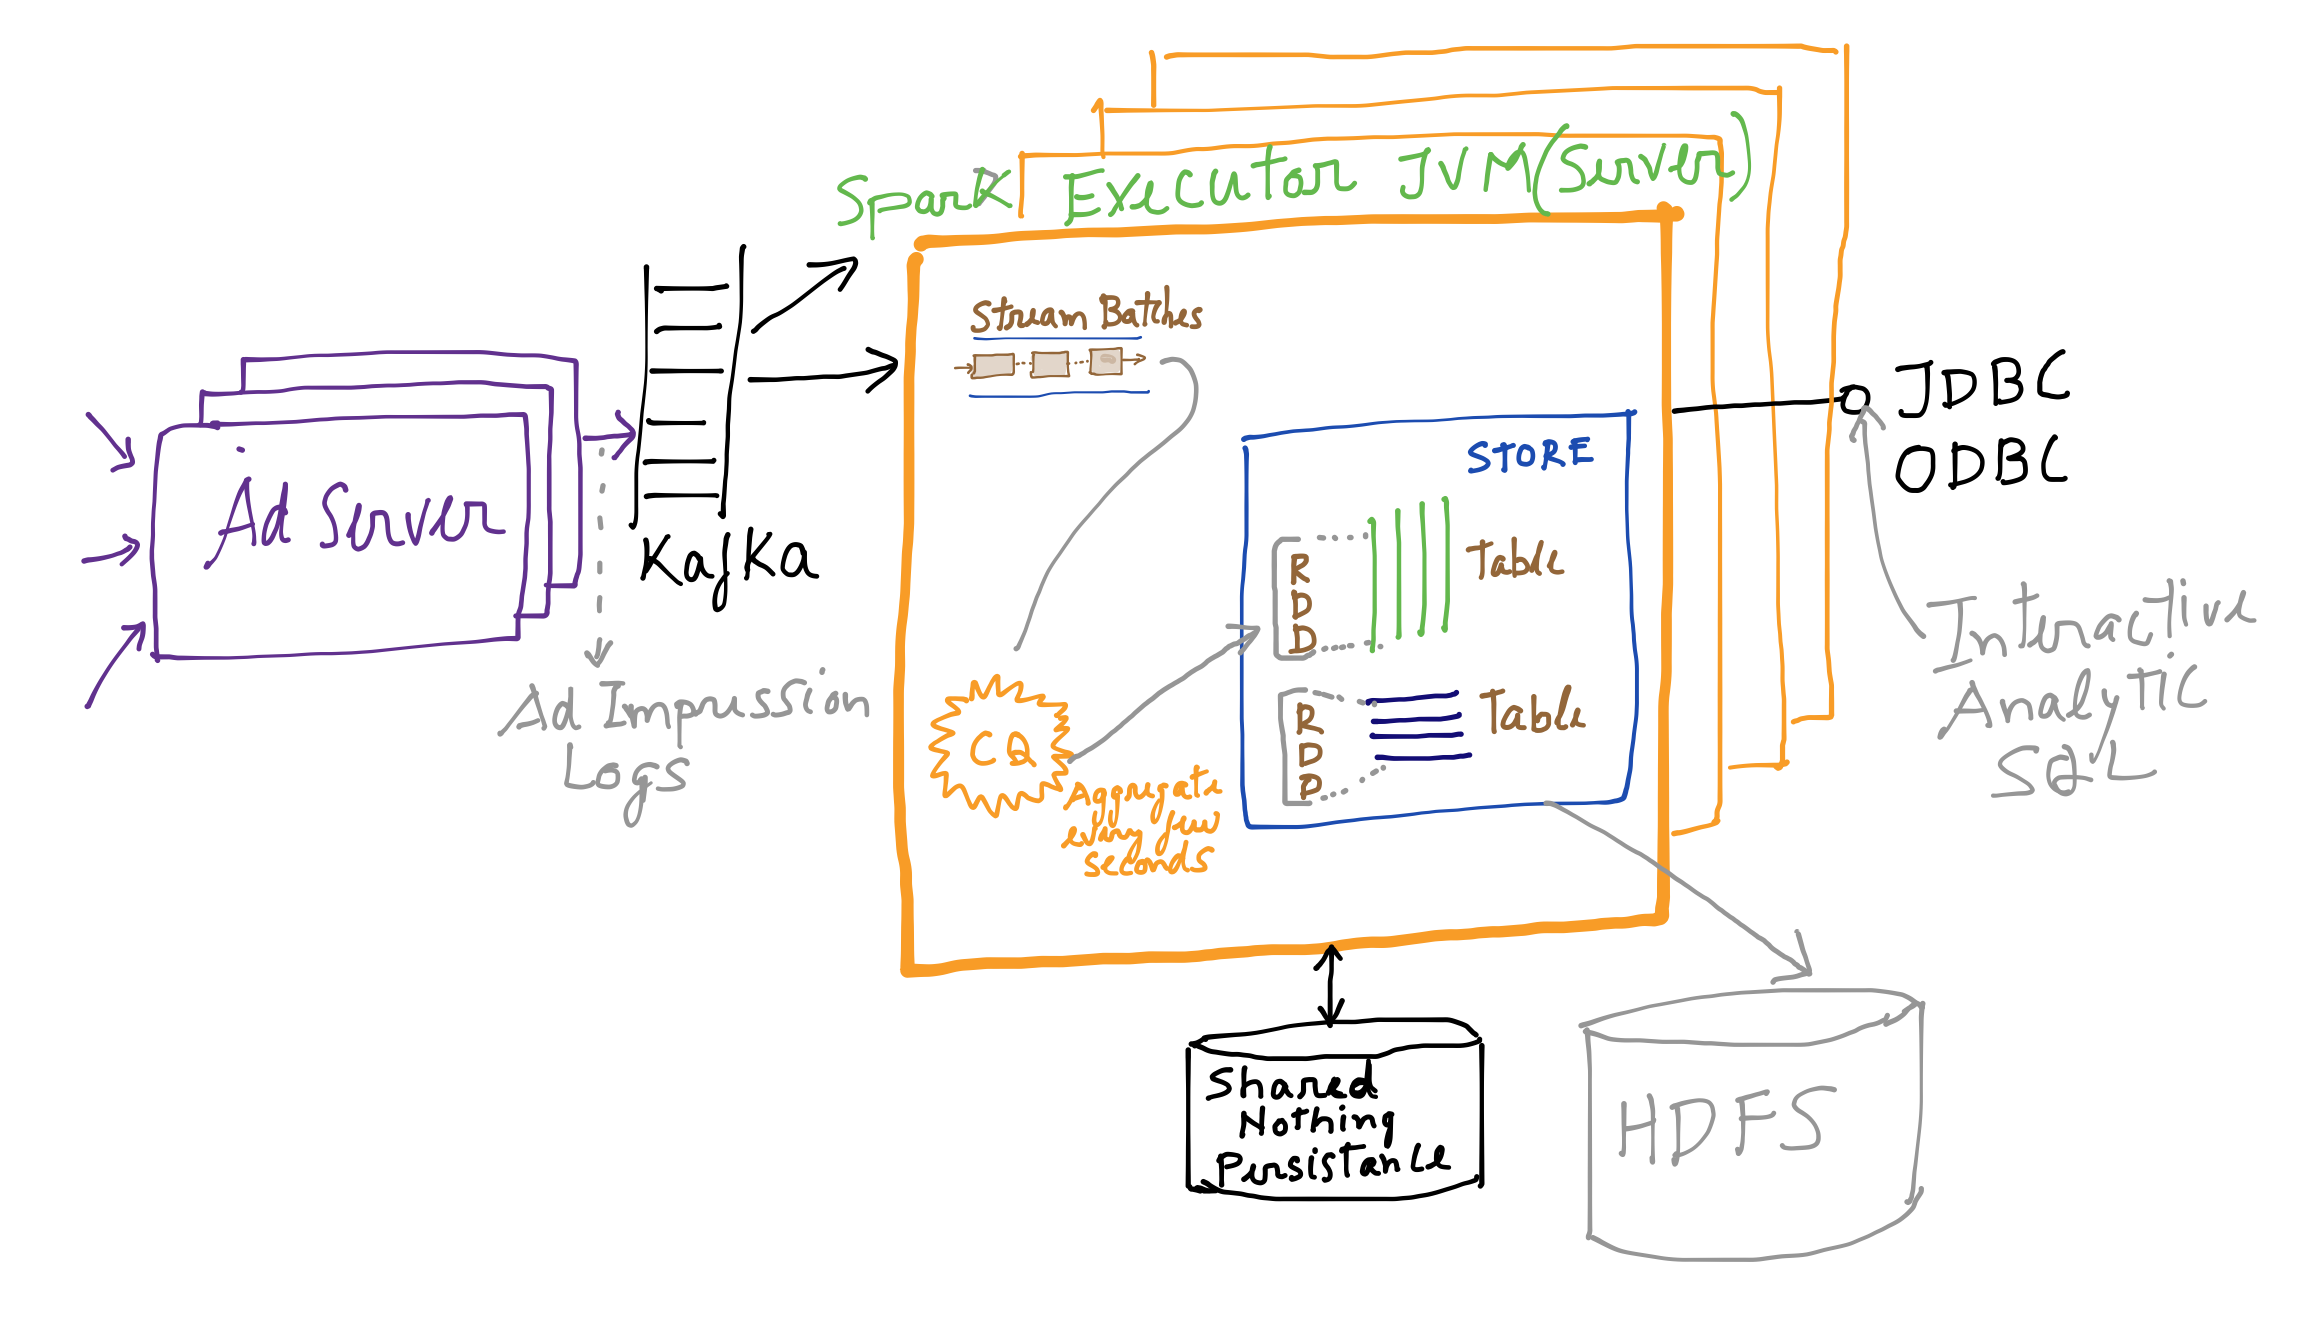
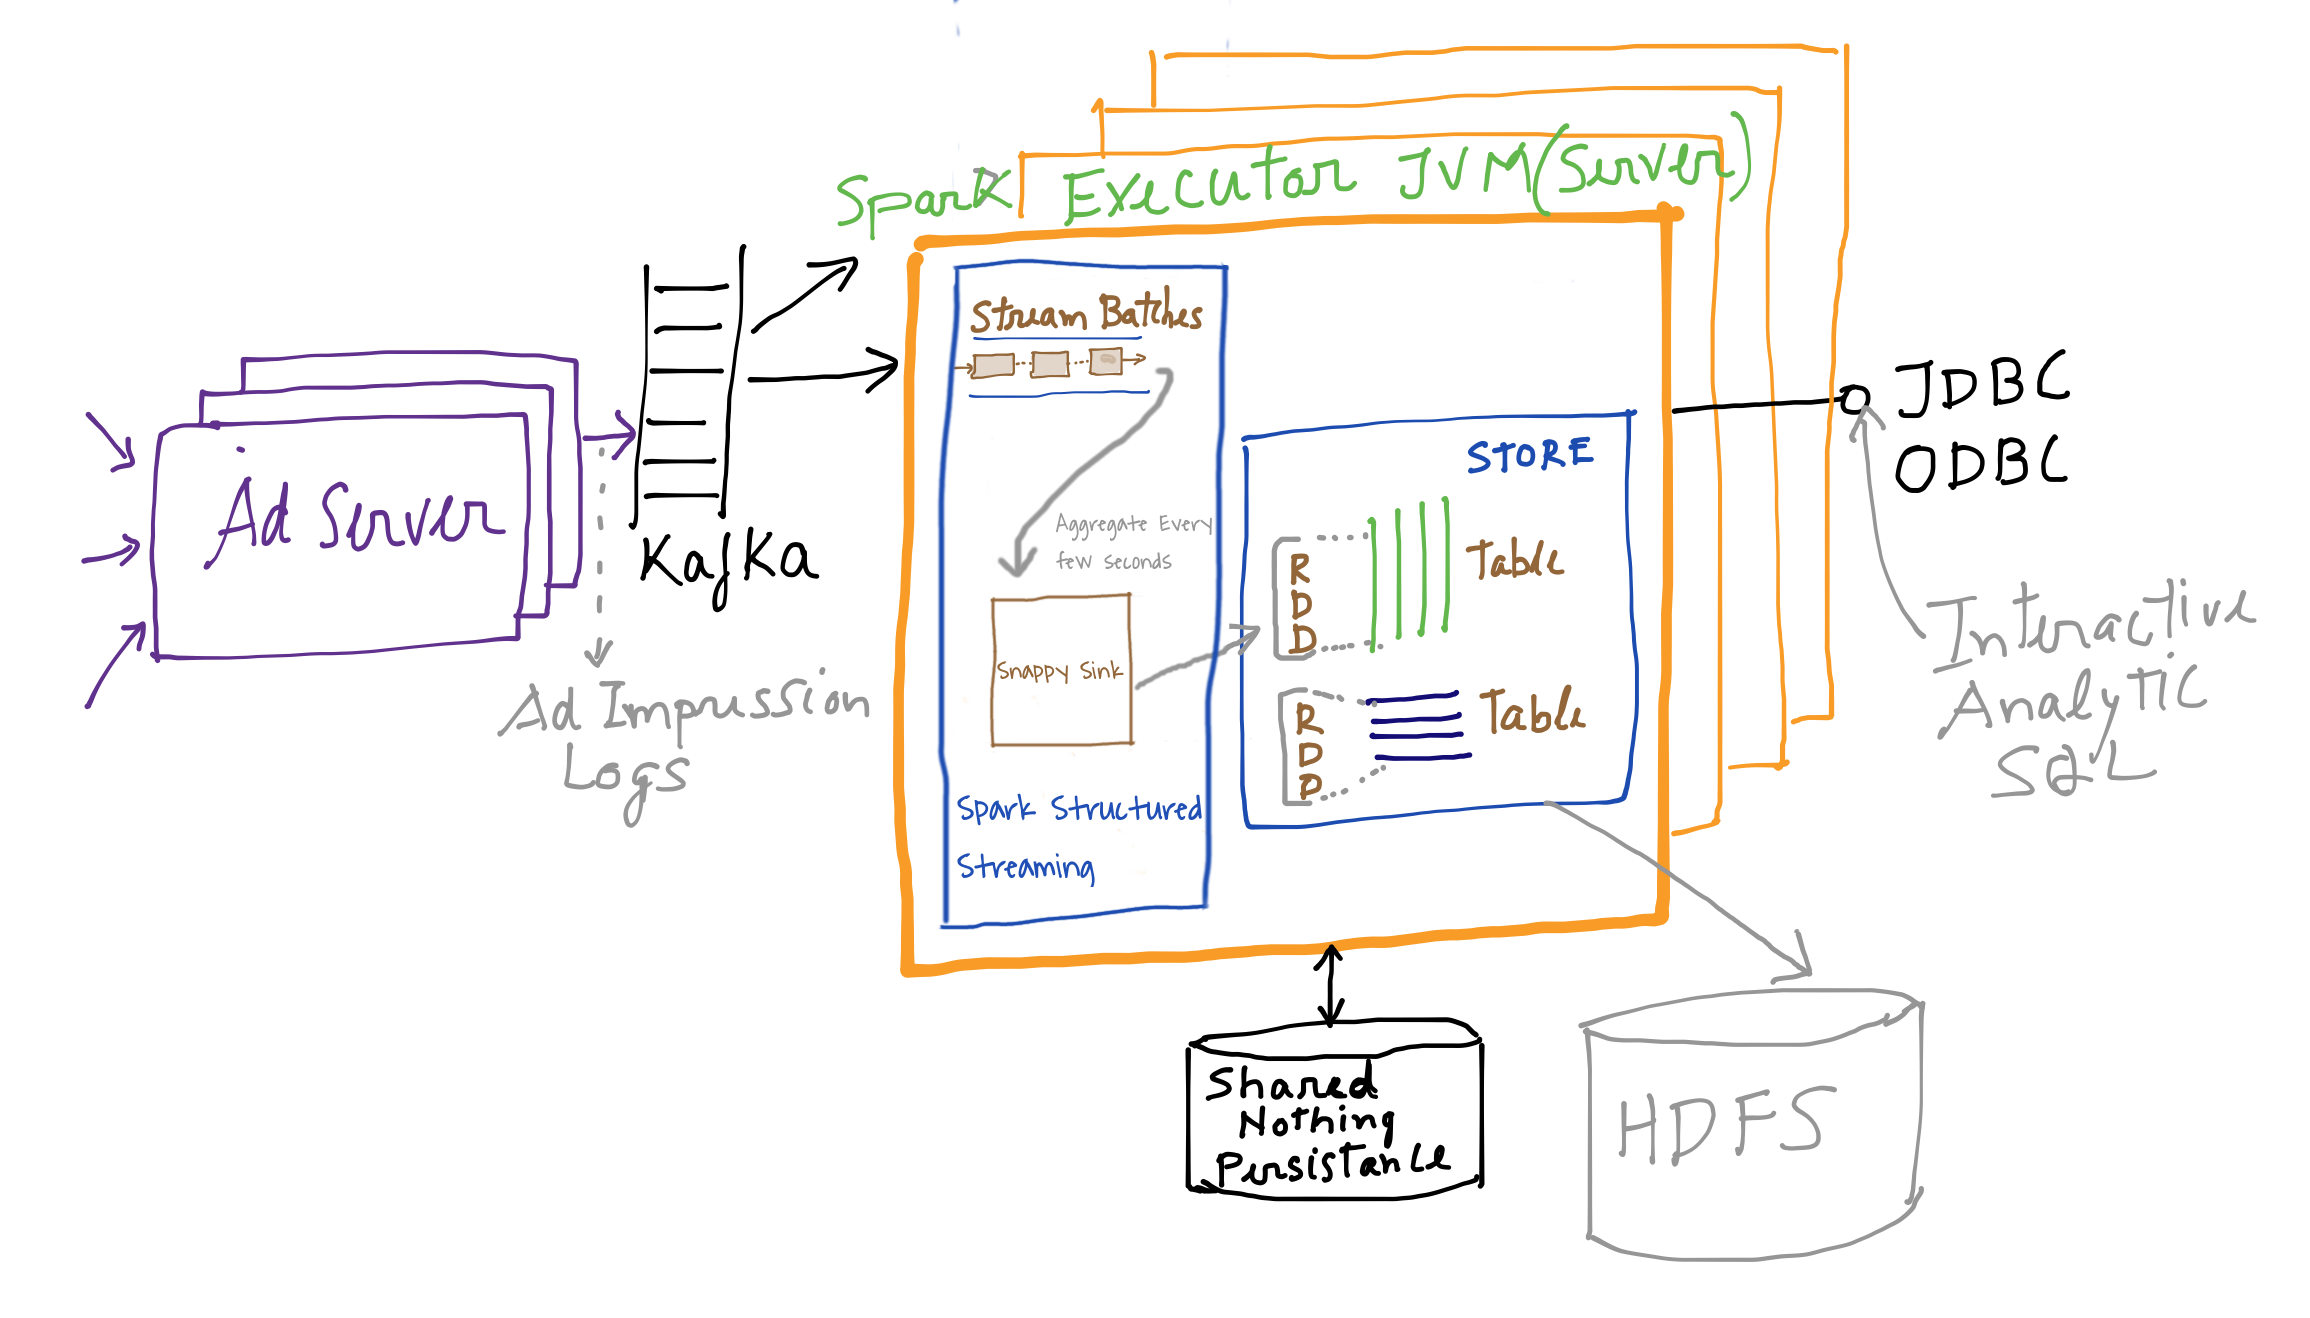
- updating diagram - cleanup - correction in readme - bumping up snappy version

Changed region(s): [[0.4052, 0.1866, 0.5299, 0.7155]]

diff --git a/README.md b/README.md
@@ -52,19 +52,18 @@ stream. To accomplish this, SnappyData collocates the store partitions with part
 i.e. a batch of data from the stream in each Spark executor is transformed into a compressed column batch and stored in
 the same JVM, avoiding redundant shuffles (except for HA).
 
-TODO: Need to review this architecture diagram
 ![Architecture Kinda](AdAnalytics_Architecture.png)
 
 
 The incoming AdImpression log is formatted as depicted below.
-
-|timestamp              |publisher  |advertiser  | website  |geo|bid     |cookie   |
-|-----------------------|-----------|------------|----------|---|--------|---------|
-|2016-05-25 16:45:29.027|publisher44|advertiser11|website233|NJ |0.857122|cookie210|                           
-|2016-05-25 16:45:29.027|publisher31|advertiser18|website642|WV |0.211305|cookie985|                           
-|2016-05-25 16:45:29.027|publisher21|advertiser27|website966|ND |0.539119|cookie923|                           
-|2016-05-25 16:45:29.027|publisher34|advertiser11|website284|WV |0.050856|cookie416|                           
-|2016-05-25 16:45:29.027|publisher29|advertiser29|website836|WA |0.896101|cookie781|                           
+                           
+|timestamp              |publisher  |advertiser  |website   |geo|bid                |cookie   |
+|-----------------------|-----------|------------|----------|---|-------------------|---------|
+|2020-02-17 16:37:59.289|publisher24|advertiser5 |website478|NJ |0.6682117005884909 |cookie649|
+|2020-02-17 16:37:59.289|publisher31|advertiser19|website337|NE |0.5697320252959912 |cookie340|
+|2020-02-17 16:37:59.289|publisher27|advertiser14|website364|OK |0.2685715410844016 |cookie536|
+|2020-02-17 16:37:59.289|publisher23|advertiser26|website531|MT |0.7226818935272965 |cookie487|
+|2020-02-17 16:37:59.289|publisher3 |advertiser15|website937|MT |0.48053937420374915|cookie605|
 
 
 We pre-aggregate these logs by publisher and geo, and compute the average bid, the number of impressions and the number
@@ -75,16 +74,15 @@ Some examples of interactive queries:
 - **Impression trends for advertisers over time**
 - **Top ads based on uniques count for each Geo**
 
-//todo[vatsal]: the timestamp millis values should be zero if we are aggregating on the window of 1 second
 So the aggregation will look something like:
-    
-|timestamp               |publisher  |geo | avg_bid          |imps|uniques|
-|------------------------|-----------|----|------------------|----|-------|
-|2016-05-25 16:45:01.026 |publisher10| UT |0.5725387931435979|30  |26     |              
-|2016-05-25 16:44:56.21  |publisher43| VA |0.5682680168342149|22  |20     |              
-|2016-05-25 16:44:59.024 |publisher19| OH |0.5619481767564926|5   |5      |             
-|2016-05-25 16:44:52.985 |publisher11| VA |0.4920346523303594|28  |21     |              
-|2016-05-25 16:44:56.803 |publisher38| WI |0.4585381957119518|40  |31     |
+
+|time_stamp            |publisher  |geo|avg_bid            |imps|uniques|
+|----------------------|-----------|---|-------------------|----|-------|
+|2020-02-17 16:39:28.0 |publisher16|NY |0.4269814055107817 |190 |158    |
+|2020-02-17 16:39:31.0 |publisher30|CT |0.4482890418617008 |19  |19     |
+|2020-02-17 16:39:26.0 |publisher37|HI |0.21539768570303286|2   |2      |
+|2020-02-17 16:39:33.0 |publisher38|ID |0.3639807522416625 |15  |15     |
+|2020-02-17 16:39:27.0 |publisher37|OH |0.381703659839993  |25  |26     |
 
 ### Code highlights
 We implemented the ingestion logic using [Vanilla Spark Structured Streaming](src/main/scala/io/snappydata/adanalytics/SparkLogAggregator.scala)
@@ -156,7 +154,7 @@ val df = snappy.readStream
   .option("kafka.bootstrap.servers", brokerList)
   .option("value.deserializer", classOf[ByteArrayDeserializer].getName)
   .option("startingOffsets", "earliest")
-  .option("maxOffsetsPerTrigger", 10000)
+  .option("maxOffsetsPerTrigger", 100000)
   .option("subscribe", kafkaTopic)
   .load().select("value").as[Array[Byte]](Encoders.BINARY)
   .mapPartitions(itr => {
@@ -204,8 +202,9 @@ snappy.sql("CREATE SAMPLE TABLE sampledAdImpressions" +
 In order to run this example, we need to install the following:
 
 1. [Apache Kafka 2.11-0.10.2.2](https://archive.apache.org/dist/kafka/0.10.2.2/kafka_2.11-0.10.2.2.tgz)  
-TODO[vatsal]: link to enterprise TIBCO ComputeDB here?
-2. [SnappyData 1.1.1 Enterprise Release](). Download the artifact snappydata-1.1.1-bin.tar.gz and Unzip it.
+TODO[vatsal]: link to TIBCO ComputeDB developer/enterprise edition here?
+2. [SnappyData 1.2.0 Enterprise Release](). Download the artifact snappydata-1.1.1-bin.tar.gz and
+ Unzip it.
 The binaries will be inside "snappydata-1.1.1-bin" directory.
 3. JDK 8
 
